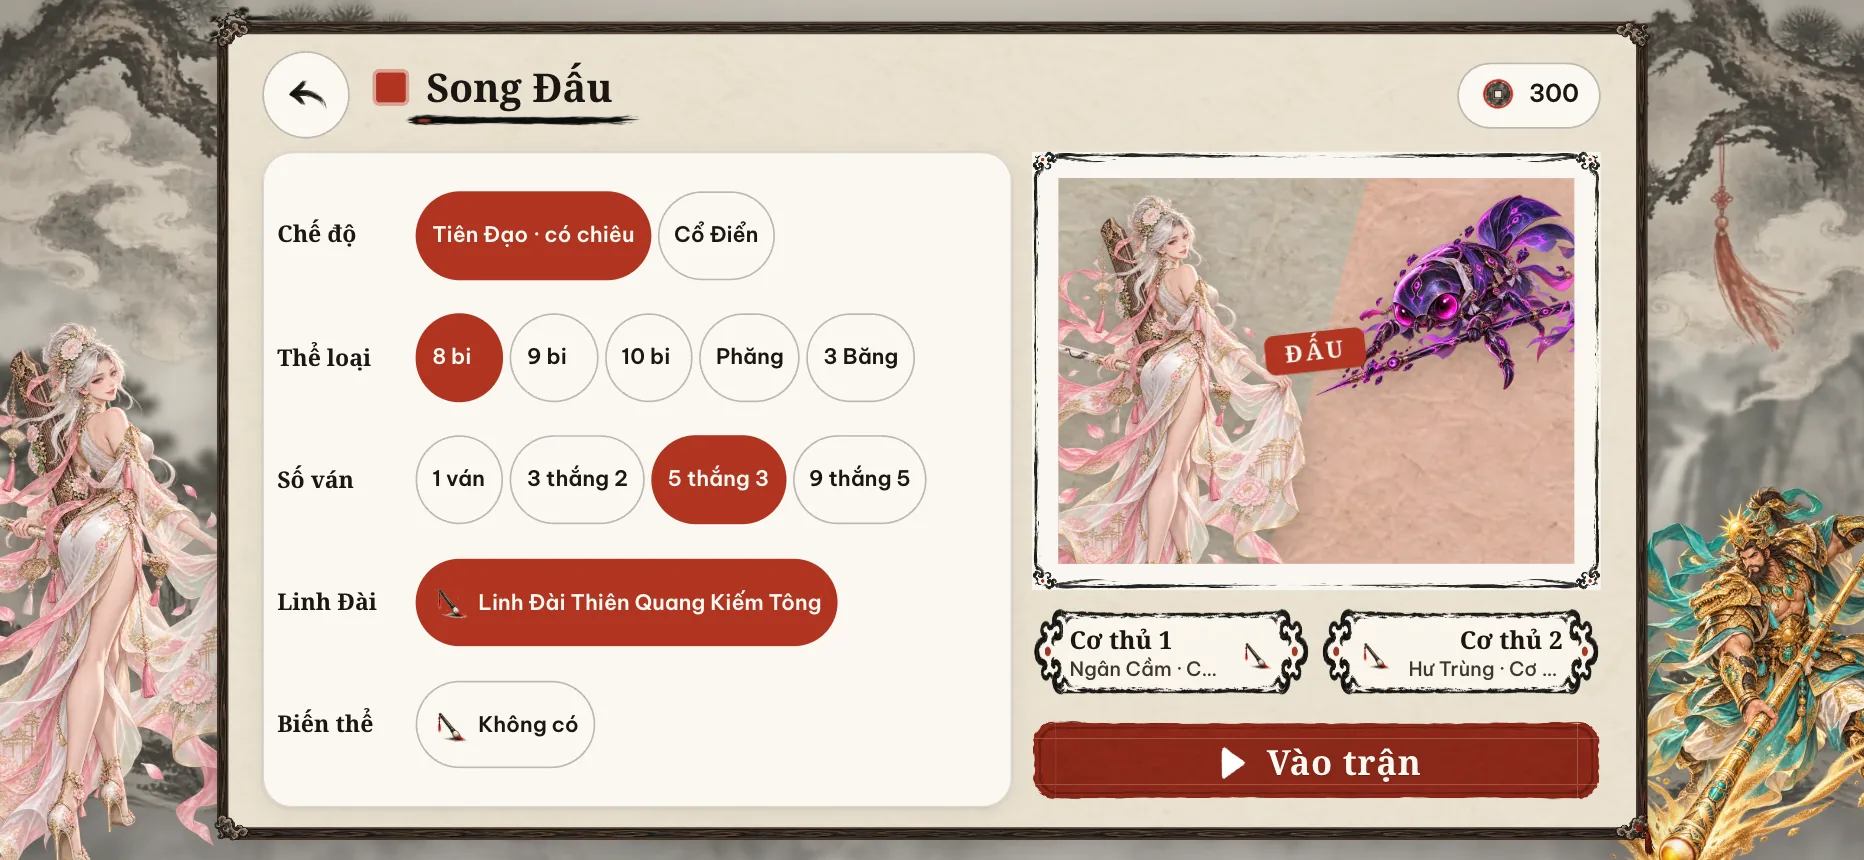
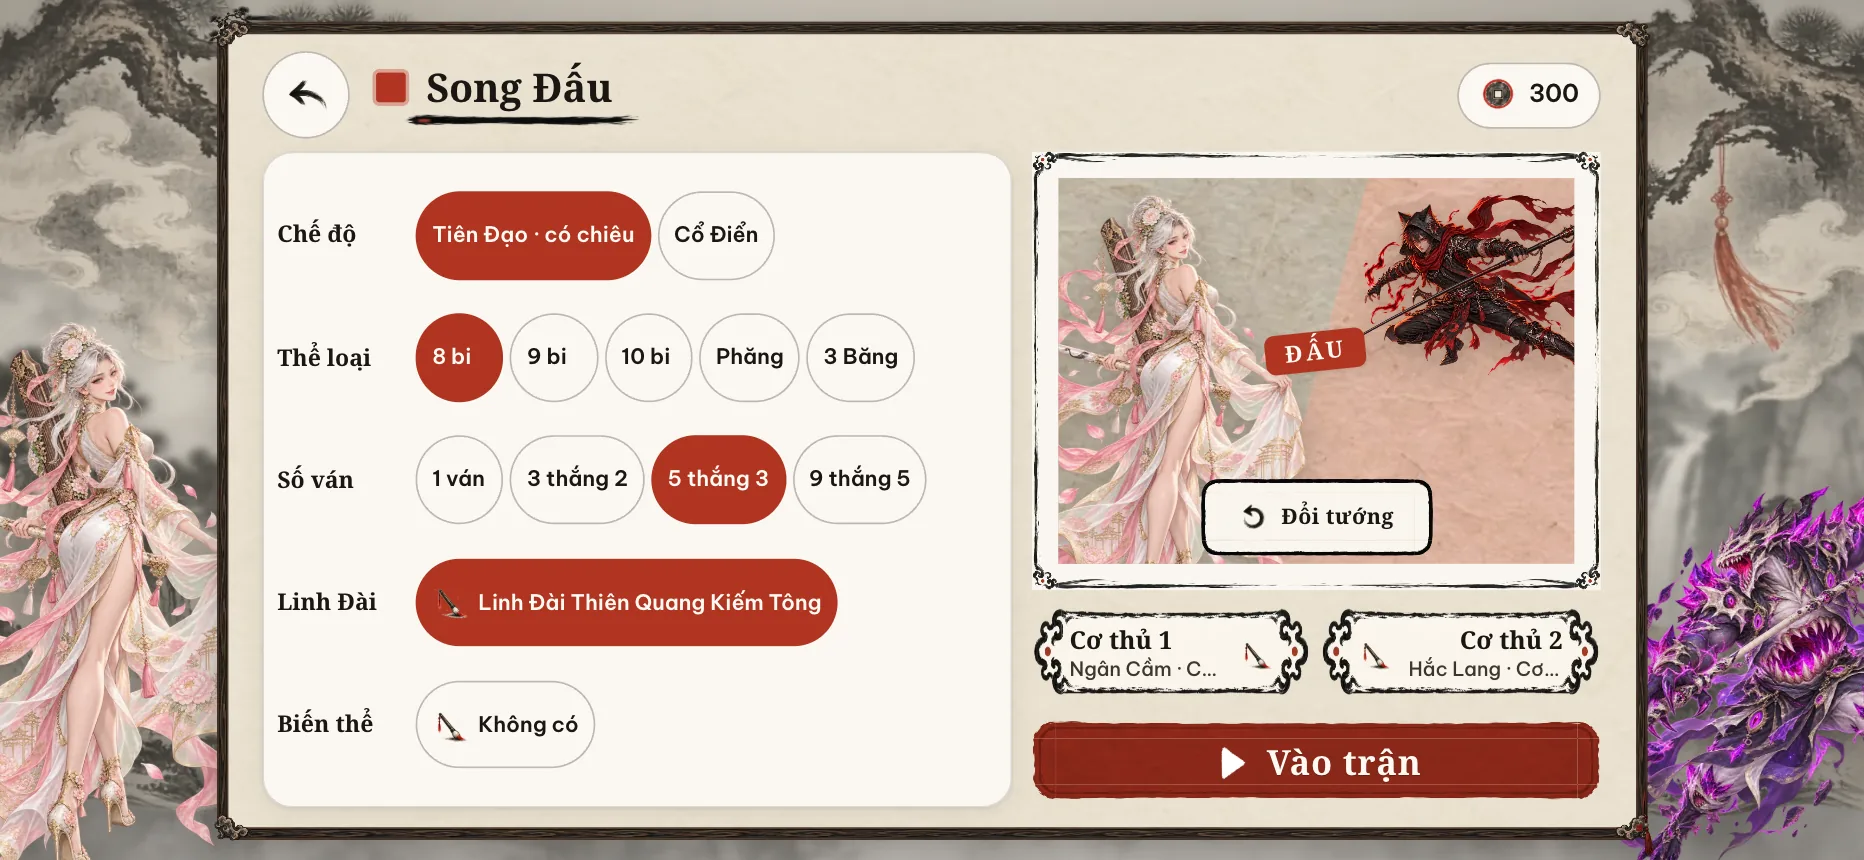
feat(setup): re-roll champions in Luận Cơ and Song Đấu
Luận Cơ gets an Đổi đối thủ button that draws another AI champion for
the chosen level; Song Đấu's Đổi tướng draws new owned champions for
both seats, never the same one twice. README text and the two setup
screenshots show the new button.

diff --git a/src/ui/screens/menus.ts b/src/ui/screens/menus.ts
@@ -447,9 +447,11 @@ function setupScreen(app: App, local: boolean): Screen {
   const foeName = h('b.vs-name');
   const foeCut = h('img.vs-cut.foe', { alt: '', draggable: false, decoding: 'async' });
   let foe: Champion;
+  const pickFrom = <T>(list: T[]): T | undefined => list[Math.floor(Math.random() * list.length)];
+  /** A fresh opponent for the level; a re-roll never lands on the one already shown. */
   const chooseFoe = () => {
     const pool = CHAMPIONS.filter((c) => c.id !== app.profile.champion && (local ? app.profile.champions.includes(c.id) : Math.abs(c.tier - (st.level + 1)) <= 1));
-    foe = pool[Math.floor(Math.random() * pool.length)] ?? CHAMPIONS.find((c) => c.id !== app.profile.champion)!;
+    foe = pickFrom(pool.filter((c) => c !== foe)) ?? pickFrom(pool) ?? CHAMPIONS.find((c) => c.id !== app.profile.champion)!;
     seats[1].champion = foe.id;
     foePortrait.replaceChildren(avatar(foe.id));
     foeName.textContent = foe.name;
@@ -535,6 +537,18 @@ function setupScreen(app: App, local: boolean): Screen {
     foeCut.src = cutoutUrl(seats[1].champion);
   }
   if (local) paintSeats();
+  /** Song Đấu re-rolls both seats from the owned champions (never the same one twice). */
+  const rollSeats = () => {
+    const owned = CHAMPIONS.filter((c) => app.profile.champions.includes(c.id));
+    for (const seat of seats) {
+      const other = seats.find((x) => x !== seat)!.champion;
+      const fresh = owned.filter((c) => c.id !== other && c.id !== seat.champion);
+      seat.champion = (pickFrom(fresh) ?? pickFrom(owned.filter((c) => c.id !== other)) ?? champion(seat.champion)).id;
+    }
+    paintSeats();
+  };
+  const roll = btn(h('span.btn-in', null, icon('replay'), local ? 'Đổi tướng' : 'Đổi đối thủ'), () => (local ? rollSeats() : chooseFoe()), 'small secondary vs-roll');
+  roll.setAttribute('aria-label', local ? 'Đổi ngẫu nhiên tướng của cả hai người chơi' : 'Đổi ngẫu nhiên tướng đối thủ');
   // A duel stage: both champions full-body facing each other, the seal between, the start stamp below.
   const versus = h('div.versus',
     null,
@@ -542,6 +556,7 @@ function setupScreen(app: App, local: boolean): Screen {
       meCut,
       foeCut,
       h('div.vs-seal', { 'aria-hidden': 'true' }, 'đấu'),
+      roll,
     ),
     h('div.vs-plates', null, ...(local ? plates : [
       tap(h('button.vs-side.me', { 'aria-label': 'Đổi tướng' },

diff --git a/src/styles/skin.css b/src/styles/skin.css
@@ -161,6 +161,9 @@
 .vs-cut.me { left: -4%; object-position: left bottom; }
 .vs-cut.foe { right: -4%; object-position: right bottom; transform: scaleX(-1); }
 .vs-stage .vs-seal { position: absolute; left: 50%; top: 50%; transform: translate(-50%, -50%) rotate(-6deg); z-index: 2; }
+/* Re-roll sits on the stage's bottom edge, below the seal and clear of both faces. */
+.vs-stage .vs-roll { position: absolute; left: 50%; bottom: 2px; translate: -50% 0; z-index: 3; min-height: max(34px, calc(44px / var(--ui-scale, 1))); padding: 0 12px; font-size: 13px; white-space: nowrap; }
+.vs-stage .vs-roll .ico { width: 18px; height: 18px; }
 .vs-plates { display: grid; grid-template-columns: repeat(2, minmax(0, 1fr)); gap: 6px; min-width: 0; }
 /* Player plates match the match HUD: painted paper, ink type, room for two sub lines. */
 .vs-plates .vs-side { min-width: 0; align-items: center; height: 64px; min-height: max(58px, calc(44px / var(--ui-scale, 1))); padding: 9px 22px; background: none; border: 1px solid transparent; border-image: url('/art/ui/frame/plate.webp') 0 80 fill / 0 18px / 0 stretch; color: var(--ink); border-radius: 0; }

diff --git a/AGENTS.md b/AGENTS.md
@@ -61,6 +61,9 @@ Use the loader in `src/platform/preload.ts`: art lives in the lasting `art` cach
 
 README and docs screenshots always use **Ngân Cầm** (`ngancam`) as the player's champion (home, setup screens, matches, skill and ultimate cards, Kết liễu, Tàng Các and the champion page). This only applies to the screenshot browser's profile; never change game defaults for it.
 
+When a change alters a screen that appears in a README or docs screenshot, retake exactly those screenshots
+(same 932×430 @2x frame, same screen state) in the same change and update the text that describes them.
+
 ## Current controls
 
-Aim by dragging/tapping the table or the two rotation buttons. Holding or dragging the small cue-ball button opens a large ball to steer spin; tapping it opens the precise sheet (draggable point on the large ball, presets). Tap the power bar to set a level, drag to fine-tune, then tap ĐÁNH; after any shot the bar keeps showing that shot's power until a human turn starts, then shows that seat's own setting (each Song Đấu seat keeps its own); tapping a ball on the table names it; announcements close on any tap or their ✕, and the Thông báo giữa bàn setting (Settings and pause menu) hides them except fouls and rack wins; pocket calls show in the objective plate and nothing sits on the rails; nine- and ten-ball show the next two balls; holding ĐÁNH charges an oscillating meter, sliding away cancels. Ball-in-hand uses drag/tap or the round painted direction pad, Ngắm thử / Dời bi, then ĐẶT BI. In Luyện thế a tap on a ball names it, a drag only moves it. The active player's portrait carries a bobbing turn arrow; each card shows a ball tray (eight-ball: the whole group, balls still on the table faded). Leaving a match asks for confirmation. Song Đấu lets each player set name, owned champion (never the same as the other) and cue, plus the table. The pause menu shows the score, three quick switches (sound, music, announcements) and one column of actions. Preserve the three champion-specific painted skill icons and detail-before-use flow. The outer frame excludes safe areas once; touch-target tokens compensate for DOM scale. Verify rendered sizes. Cue elevation in the spin sheet drives physical 2.5D jumps; preserve off-table rule handling. Ultimate presentation waits for ĐÁNH, then cut-in → table FX → cue strike → simulation.
+Aim by dragging/tapping the table or the two rotation buttons. Holding or dragging the small cue-ball button opens a large ball to steer spin; tapping it opens the precise sheet (draggable point on the large ball, presets). Tap the power bar to set a level, drag to fine-tune, then tap ĐÁNH; after any shot the bar keeps showing that shot's power until a human turn starts, then shows that seat's own setting (each Song Đấu seat keeps its own); tapping a ball on the table names it; announcements close on any tap or their ✕, and the Thông báo giữa bàn setting (Settings and pause menu) hides them except fouls and rack wins; pocket calls show in the objective plate and nothing sits on the rails; nine- and ten-ball show the next two balls; holding ĐÁNH charges an oscillating meter, sliding away cancels. Ball-in-hand uses drag/tap or the round painted direction pad, Ngắm thử / Dời bi, then ĐẶT BI. In Luyện thế a tap on a ball names it, a drag only moves it. The active player's portrait carries a bobbing turn arrow; each card shows a ball tray (eight-ball: the whole group, balls still on the table faded). Leaving a match asks for confirmation. Song Đấu lets each player set name, owned champion (never the same as the other) and cue, plus the table; its Đổi tướng button re-rolls both champions from the owned ones, and Luận Cơ's Đổi đối thủ re-rolls the AI champion within the level's tiers. The pause menu shows the score, three quick switches (sound, music, announcements) and one column of actions. Preserve the three champion-specific painted skill icons and detail-before-use flow. The outer frame excludes safe areas once; touch-target tokens compensate for DOM scale. Verify rendered sizes. Cue elevation in the spin sheet drives physical 2.5D jumps; preserve off-table rule handling. Ultimate presentation waits for ĐÁNH, then cut-in → table FX → cue strike → simulation.

diff --git a/README.md b/README.md
@@ -24,8 +24,9 @@ dụng (PWA), chơi offline.
   nhiên — bão tuyết, sóng lừng, gió giật, giếng sao, rễ cây… — đều là lực và ma sát thật trong mô phỏng,
   báo trước và vẽ lên bàn. Gió giữ một chiều suốt lượt, thông báo nêu hướng và sức gió (nhẹ, vừa, mạnh), mũi
   tên mực trên nỉ to và trôi nhanh theo sức gió. Địa Lợi cho tướng đánh trên bàn quê nhà.
-- **Luận Cơ:** so tài nhanh với máy. **Song Đấu:** hai người luân phiên trên cùng một thiết bị; mỗi bên tự đặt
-  tên, chọn tướng đã mở khoá (không trùng nhau) và cây cơ, cùng chọn bàn — không phụ thuộc tướng đại diện.
+- **Luận Cơ:** so tài nhanh với máy; nút **Đổi đối thủ** bốc ngẫu nhiên tướng đối thủ khác hợp cấp độ. **Song Đấu:**
+  hai người luân phiên trên cùng một thiết bị; mỗi bên tự đặt tên, chọn tướng đã mở khoá (không trùng nhau) và cây
+  cơ, cùng chọn bàn — không phụ thuộc tướng đại diện; nút **Đổi tướng** bốc ngẫu nhiên lại tướng cho cả hai.
 - **Luyện Cơ:** luyện từng cú đánh qua các bài thế có lời giải, chấm sao.
 - **Luyện thế:** chọn một thế mẫu (phá bi, cắt mỏng, bi sát băng, bi kết, gỡ thế chặn, nhảy bi, ba băng…) hoặc thế mình đã lưu, xếp thêm bi từ khay bằng cách chạm hay kéo, rồi đánh tự do không luật. **Đánh lại** trả mọi bi về chỗ trước cú vừa đánh, **Đường đi** vẽ trước đường của mọi bi, **Lưu thế** giữ vị trí bàn vào Thế của tôi.
 - **Tàng Các:** chiêu mộ tướng, chọn Pháp Cơ và Linh Đài; các tab Vùng đất, Hệ, Luật là **Cơ Tiên Lục**, wiki trong game
